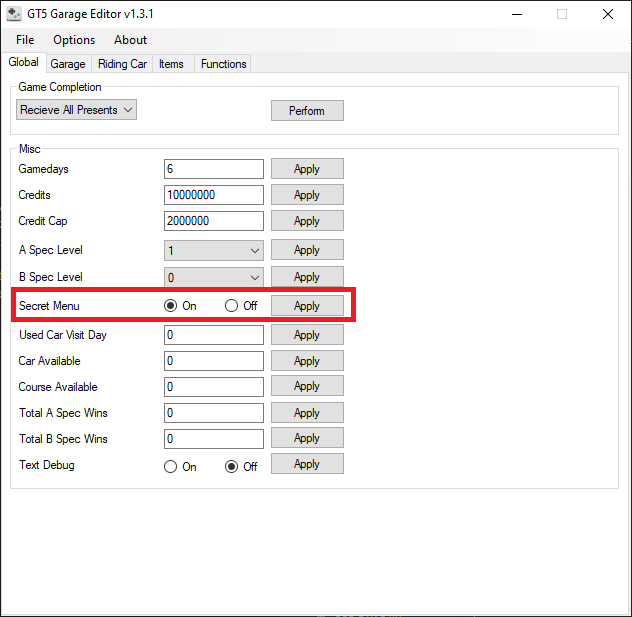
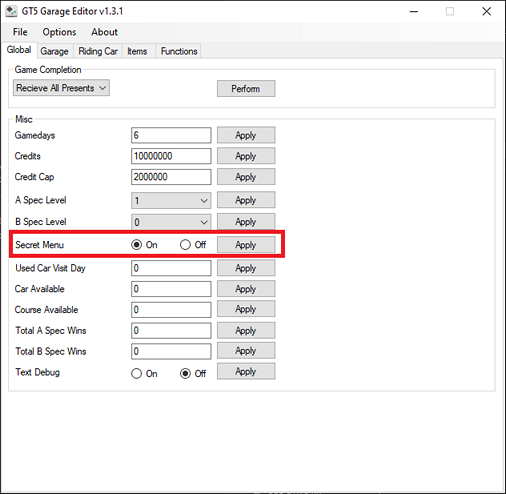
Fix

diff --git a/GT5LAN/index.html b/GT5LAN/index.html
@@ -16,7 +16,7 @@
 
 	<p class="important" style="text-align:center">THE EBOOT METHOD IS CONSIDERED OBSOLETE, IT IS ADVISED YOU JOIN THE GT ONLINE/MODDING COMMUNITY DISCORD AND FOLLOW THE GUIDE WRITTEN BY NENKAI<br><br>
 	<a class="link" href="https://discord.gg/rUVRq2Dree" target="_blank">GT Online/Modding Community Discord</a><br><a class="link" href="https://gist.github.com/Nenkai/f46bdce07c4ee019c57494319b292b30"  target="_blank">Nenkai's Guide</a><br><br>Have fun :)<br><br>
-	---> Everything beyond this point is kept for archival purposes. <--- <br>Guide created 27/06/2020 by Chopper</p>
+	---&gt; Everything beyond this point is kept for archival purposes. &lt;--- <br>Guide created 27/06/2020 by Chopper</p>
 	<hr>
 	<p class="important">Note: All links will be in red text.<br>
     Green text is for important stuff.<br>
@@ -46,7 +46,7 @@ Either through FTP or using a USB, copy your new save game from your PS3 to your
 Save the file and copy the save back to your PS3<br><br>
 NOTE: You will not be able to buy any cars when using the modified EBOOT, so please add any cars you would want or add lots of money and buy the cars in game and modify them to your liking BEFORE replacing the EBOOT.<br><br></p>
 <a href="GarageEditor.PNG" target="_blank">
-<img src="GarageEditor.PNG" width="20%">
+<img src="GarageEditor.PNG" alt="Screenshot of the GT5 Garage Editor">
 </a>
 <br>
 <h2>EBOOT.BIN:</h2>
@@ -62,10 +62,10 @@ You can download the EBOOT.BIN I have already modified here: <a class="link" hre
     <li>Place the EBOOT.BIN in the TrueAncestor SELF Resigner folder (Same folder as resigner.exe)</li>
     <li>Open resigner.exe, press 1 and then press enter. This decrypts the BIN file and creates an ELF file</li>
     <li>Open the ELF file in a Hex editor such as HxD, do find (search) for the text string "gt5", press "Find next" (F3) until you reach line that contains <a class="important">"gt5......VersionBranch"</a> as in the screenshot:<br>
-    <a href="HEX.PNG" target="_blank">
-    <img src="HEX.PNG" width="50%"></a></li>
+    <a href="HEX.PNG" target="_blank" alt="Screenshot of the string of characters to find">
+    <img src="HEX.PNG"></a></li>
     <li>Highlight "gt5" in this line and type demo over it, it should look similar enough to this:<br>
-    <a href="HEX2.PNG" target="_blank"><img src="HEX2.PNG" width="50%"></a></li>
+    <a href="HEX2.PNG" target="_blank"><img src="HEX2.PNG" alt="Screenshot of the string of characters changed"></a></li>
     <li>Save that file (the "demo" text should turn black) and close HxD.</li>
     <li>Now copy this modified EBOOT.ELF into the "tools" folder within the TrueAncestor SELF Resigner folder</li>
     <li>Hold shift and right click in an empty space in the tools folder and choose "Open Powershell window here" or "Open CMD window here"</li>
